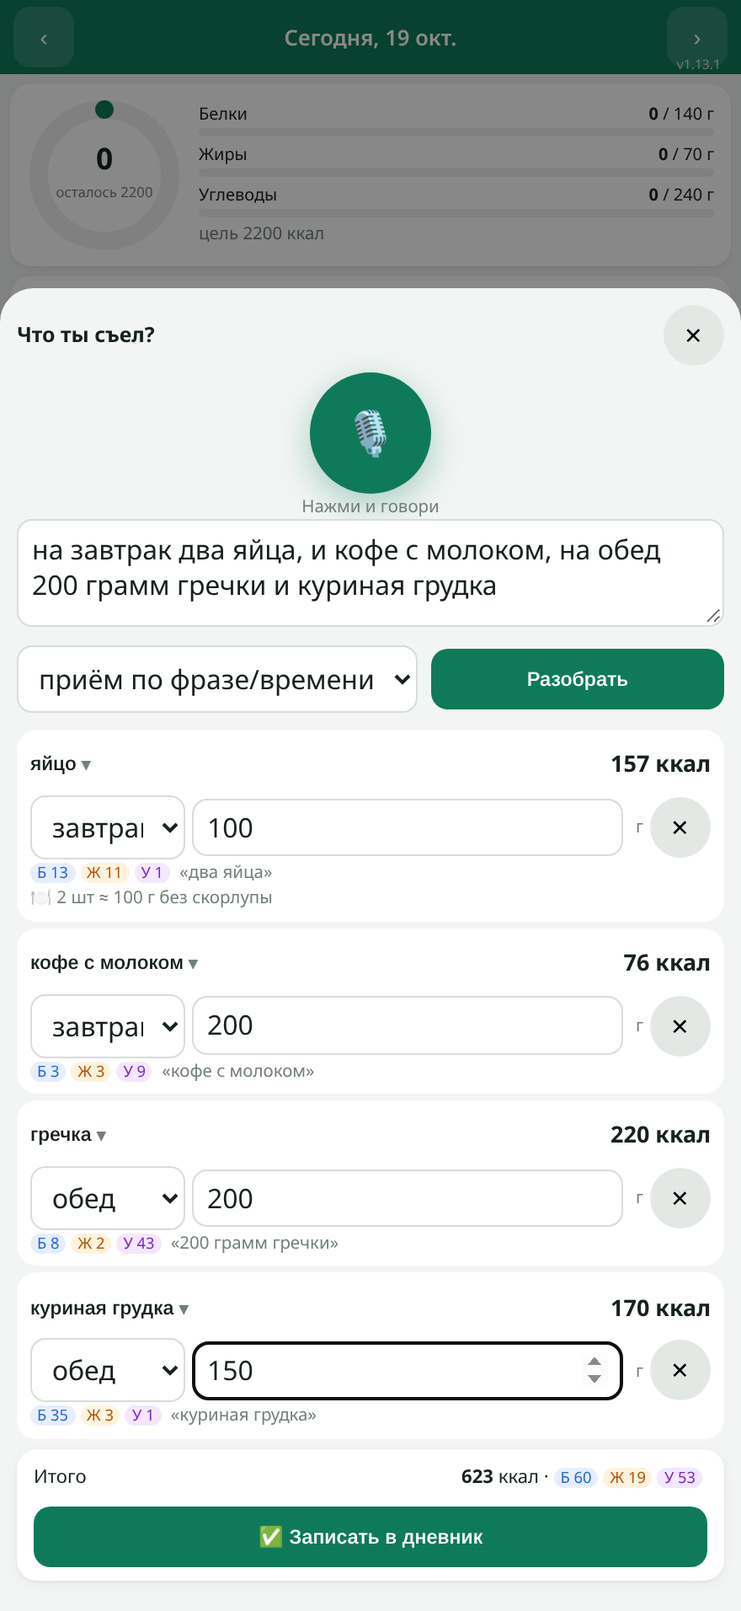
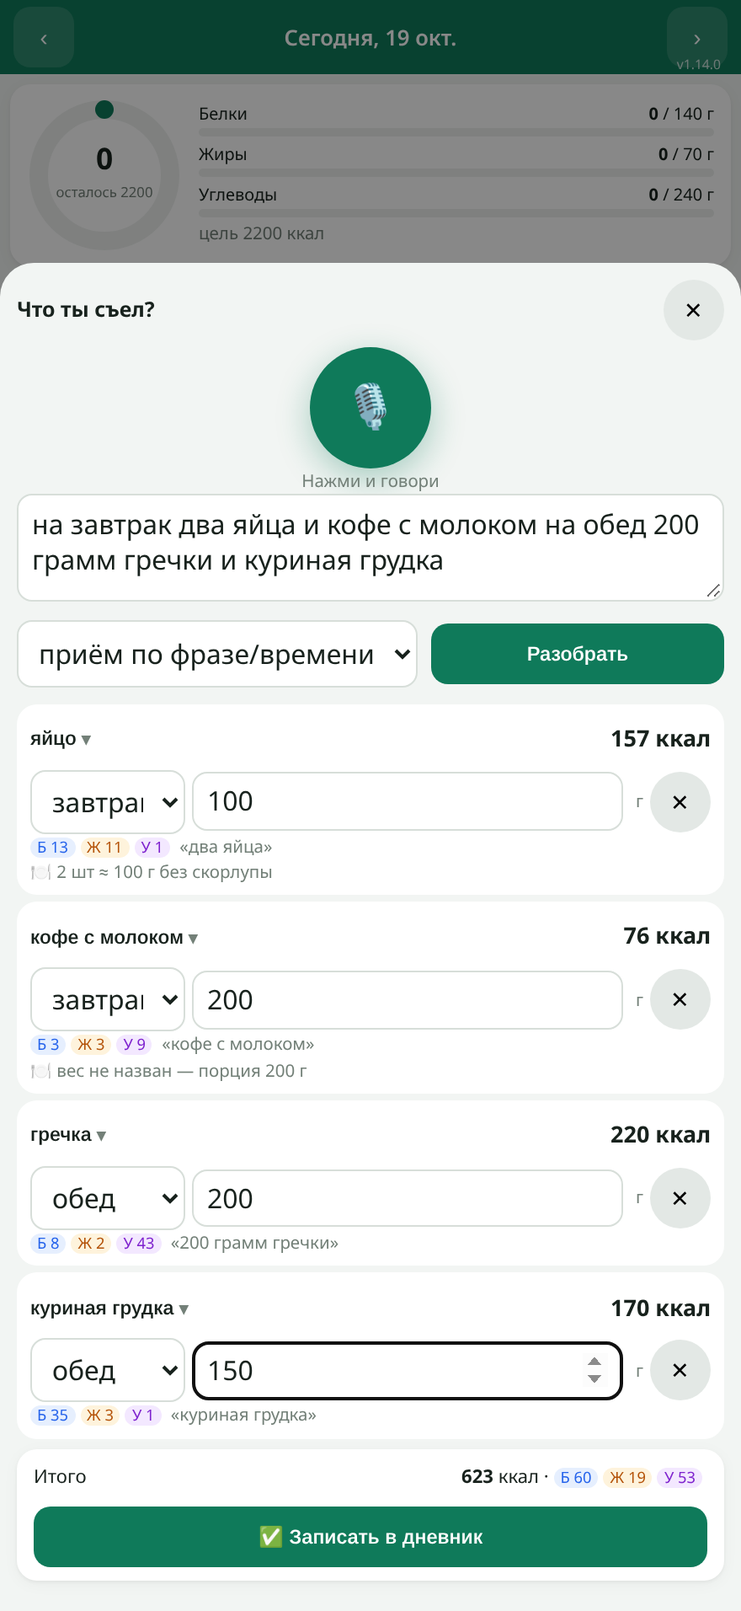
v1.14.0: free-speech parser (fillers, DB segmentation, cooked qualifiers), iOS mic engine with auto-restart + silent retry

Changed region(s): [[0.0307, 0.216, 0.9818, 0.6789], [0.0, 0.1543, 1.0, 0.216]]

diff --git a/app.js b/app.js
@@ -1,5 +1,5 @@
 'use strict';
-const VER='1.13.1';
+const VER='1.14.0';
 const $=s=>document.querySelector(s), R=Math.round, esc=s=>String(s==null?'':s).replace(/[&<>"]/g,c=>({'&':'&amp;','<':'&lt;','>':'&gt;','"':'&quot;'}[c]));
 const MEALS=['завтрак','обед','ужин','перекус'], MI={завтрак:'🍳',обед:'🍲',ужин:'🍽',перекус:'🍎'};
 const KEY='kbju.v1';
@@ -313,44 +313,24 @@ function recalc(it){ if(it.food)Object.assign(it,KP.nutr(it.food,it.g)) }
 // Микрофон-переключатель (iOS-устойчивый): 1-е нажатие — старт, 2-е — ВСЕГДА стоп.
 // Сессии continuous=false; управляемый перезапуск, пока пользователь не нажал «стоп» (лимит + backoff).
 // Финальный и промежуточный текст сразу пишется в поле — ничего не теряется. Сторож 8 с. Ошибки → понятные сообщения; в PWA при сбое — диктовка клавиатуры.
-const MIC={sr:null,on:false,target:null,btn:null,base:'',sess:'',tmp:'',done:null,restarts:0,empty:0,got:false,wd:null,rt:null,fails:0,t0:0};
-const MIC_MAX=25, MIC_WD=8000, STANDALONE=!!(navigator.standalone||(window.matchMedia&&matchMedia('(display-mode: standalone)').matches));
-const MIC_ERR={'no-speech':'Не слышу речь — говори ближе к микрофону','aborted':'','audio-capture':'Микрофон недоступен (занят другим приложением?)',
- 'not-allowed':'Нет доступа к микрофону — разреши в Настройки → Safari → Микрофон','service-not-allowed':'Распознавание речи недоступно в этом режиме iOS',
- 'network':'Нет сети для распознавания речи','language-not-supported':'Русский язык распознавания недоступен','bad-grammar':'Ошибка распознавания','phrases-not-supported':'Ошибка распознавания'};
-const MIC_HARD=/not-allowed|service-not-allowed|language-not-supported|audio-capture|network/;
+const STANDALONE=!!(navigator.standalone||(window.matchMedia&&matchMedia('(display-mode: standalone)').matches));
+const MIC={on:false,target:null,btn:null,fails:0,t0:0,eng:null};
 function mlog(ev){ if(!S.set.micdbg)return; const el=$('#micdbg'); if(!el)return; const t=MIC.t0?((Date.now()-MIC.t0)/1000).toFixed(1):'0.0';
   mlog.l=(mlog.l||[]).concat(t+'s '+ev).slice(-10); el.textContent='🎙 '+mlog.l.join(' · '); el.style.display='block' }
 function mst(t){ const st=$('#mst'); if(st)st.textContent=t; else if(t)toast(t) }
 function micKbd(target,why){ micReset(); const el=$('#'+target); if(el){ el.focus(); try{el.setSelectionRange(el.value.length,el.value.length)}catch(e){} }
   mst((why?why+'. ':'')+'Нажми 🎤 на клавиатуре iPhone и диктуй'); toast((why?why+'. ':'')+'Используй 🎤 на клавиатуре iPhone'); mlog('fallback:kbd') }
-function micStart(target,btn,done){ if(MIC.on||MIC.sr){ mlog('tap:stop'); micStop(); return }
+function micEng(){ return MIC.eng||(MIC.eng=MICX.Mic({SR,log:mlog,status:mst,ui:on=>{MIC.on=on;micUI()},
+  set:t=>{ const el=$('#'+MIC.target); if(!el)return; el.value=t; el.dispatchEvent(new Event('input',{bubbles:true})) },
+  kbd:why=>{ MIC.fails++; micKbd(MIC.target,why) },
+  fatal:(c,m)=>{ MIC.fails++; if(STANDALONE||/service-not-allowed|language/.test(c))micKbd(MIC.target,m); else mst(m+' — или 🎤 на клавиатуре') }})) }
+function micStart(target,btn,done){ if(MIC.on){ mlog('tap:stop'); micEng().stop(); return }
   if(!SR){ micKbd(target,'Распознавание речи не поддерживается'); return }
   if(MIC.fails>=2&&STANDALONE){ micKbd(target,'Микрофон в режиме приложения не работает'); return }
-  const el=$('#'+target); Object.assign(MIC,{on:true,target,btn,done,base:el&&el.value.trim()?el.value.trim()+' ':'',sess:'',tmp:'',restarts:0,empty:0,t0:Date.now()}); mlog.l=[]; mlog('tap:start'+(STANDALONE?' pwa':''));
-  micUI(); mst('Слушаю… нажми ещё раз, чтобы закончить'); micSession() }
-function micWrite(){ const el=$('#'+MIC.target); if(!el)return; const cur=(MIC.sess+(MIC.tmp?' '+MIC.tmp:'')).trim(); el.value=(MIC.base+(cur&&MIC.base.trim()&&!/[,;]\s*$/.test(MIC.base)?', ':'')+cur).replace(/\s+/g,' ').trimStart(); el.dispatchEvent(new Event('input',{bubbles:true})) }
-function micCommit(){ const add=(MIC.sess+' '+MIC.tmp).replace(/\s+/g,' ').trim(); if(add)MIC.base=(MIC.base.trim()?MIC.base.trim().replace(/[,;]$/,'')+', ':'')+add+' '; MIC.sess='';MIC.tmp=''; micWrite() }
-function micKick(){ clearTimeout(MIC.wd); if(MIC.on)MIC.wd=setTimeout(()=>{ mlog('watchdog'); const t=MIC.target; micStop(true); mst('Микрофон не ответил за 8 с — попробуй ещё раз или 🎤 на клавиатуре'); if(STANDALONE||MIC.fails>=1)micKbd(t,'Микрофон не ответил'); MIC.fails++ },MIC_WD) }
-function micSession(){ let r; try{ r=new SR() }catch(e){ mlog('ctor-fail'); micKbd(MIC.target,'Распознавание недоступно'); return }
-  MIC.sr=r; MIC.got=false; r.lang='ru-RU'; r.continuous=false; r.interimResults=true; r.maxAlternatives=1;
-  const live=()=>MIC.sr===r;
-  r.onstart=()=>{ if(live()){mlog('start');micKick()} }; r.onaudiostart=()=>{ if(live()){mlog('audio');micKick()} }; r.onspeechstart=()=>{ if(live()){mlog('speech');micKick()} };
-  r.onresult=e=>{ if(!live())return; micKick(); let fin='',tmp=''; for(let i=0;i<e.results.length;i++){ const x=e.results[i], s=(x[0]&&x[0].transcript||'').trim(); if(x.isFinal)fin+=s+' '; else tmp+=s+' ' }
-    MIC.sess=fin.trim(); MIC.tmp=tmp.trim(); MIC.got=MIC.got||!!(fin+tmp).trim(); mlog('result'+(fin?':final':':interim')); micWrite() };
-  r.onerror=e=>{ if(!live())return; const c=e.error||'unknown'; mlog('error:'+c); if(c==='aborted')return;
-    if(MIC_HARD.test(c)){ MIC.fails++; const t=MIC.target, m=MIC_ERR[c]; micCommit(); micStop(true); if(STANDALONE||/service-not-allowed|language/.test(c))micKbd(t,m); else mst(m+' — или 🎤 на клавиатуре'); return }
-    if(c==='no-speech'&&MIC.empty>=2)mst(MIC_ERR[c]); else if(MIC_ERR[c]==null)mst('Ошибка микрофона: '+c) };
-  r.onend=()=>{ if(!live())return; mlog('end'); micCommit(); if(!MIC.got)MIC.empty++; else MIC.empty=0; MIC.sr=null;
-    if(MIC.on&&MIC.restarts<MIC_MAX&&MIC.empty<4){ MIC.restarts++; const d=Math.min(1500,120*Math.pow(2,Math.max(0,MIC.empty))); clearTimeout(MIC.rt); MIC.rt=setTimeout(()=>{ if(MIC.on)micSession() },d); micKick() }
-    else { const e=MIC.on&&MIC.empty>=4; micStop(e); if(e)mst('Ничего не распознано — попробуй ещё раз или 🎤 на клавиатуре') } };
-  try{ r.start(); mlog('start()'); micKick() }catch(e){ mlog('start-throw:'+(e.name||'')); MIC.fails++; MIC.sr=null; const t=MIC.target; micStop(true); micKbd(t,'Не удалось включить микрофон') } }
-// стоп: снять флаг, abort(), сбросить UI, вернуть текст колбэку
-function micStop(quiet){ const r=MIC.sr, cb=MIC.done; micCommit(); MIC.on=false; MIC.sr=null; MIC.done=null; clearTimeout(MIC.wd); clearTimeout(MIC.rt);
-  if(r){ try{r.abort()}catch(e){} } micUI(); if(!quiet)mst('Нажми и говори'); mlog('stopped'); const el=$('#'+MIC.target); if(cb&&el&&el.value.trim())cb(el.value.trim()) }
-function micReset(){ const r=MIC.sr; MIC.on=false; MIC.sr=null; MIC.done=null; clearTimeout(MIC.wd); clearTimeout(MIC.rt); if(r){try{r.abort()}catch(e){}} micUI() }
+  const el=$('#'+target); Object.assign(MIC,{target,btn,t0:Date.now()}); mlog.l=[]; mlog('tap:start'+(STANDALONE?' pwa':'')); micEng().start(el?el.value:'',done) }
+function micReset(){ if(MIC.eng)MIC.eng.cancel(); MIC.on=false; micUI() }
 function micUI(){ document.querySelectorAll('.micb,.mic').forEach(b=>b.classList.toggle('on',MIC.on&&b===MIC.btn)) }
-function micCancel(){ if(MIC.on||MIC.sr){ micCommit(); micReset(); mlog('cancel') } }
+function micCancel(){ if(MIC.on)micReset() }
 const micBtn=(target,act)=>`<button class="micb" data-mict="${target}" data-mica="${act}" aria-label="Диктовать">🎙</button>`;
 const pl=(n,a,b,c)=>{n=Math.abs(n)%100;const m=n%10;return n>10&&n<20?c:m===1?a:m>1&&m<5?b:c};
 function saveVoice(){ const ok=V.items.filter(i=>i.food&&i.g>0), miss=V.items.filter(i=>!i.food); if(miss.length&&!confirm('Не нашлось: '+miss.map(i=>'«'+i.text+'»').join(', ')+'. Записать остальное без них?'))return; if(!ok.length){toast('Нечего сохранять — выбери продукт');return}

diff --git a/parser.js b/parser.js
@@ -165,16 +165,34 @@ function resolve(index,ch,raw,meal){ let alts=search(index,ch.text,6); const cm=
   if(food&&food.cnote)r.note=food.cnote+(r.note?' · '+r.note:'');
   if(cm){ r.unsure=false; r.cands=[food].concat(cm.alts).slice(0,3) }
   if(food)Object.assign(r,nutr(food,g)); return r }
+// свободная речь: убрать команды/междометия, «взвешенный» = готовый
+const CMD=[/(^|\s)(?:по|под|рас)?счита(?:й|ем|ть|йте)(?:-?ка|те)?(?=\s)/g,/(^|\s)(?:пожалуйста|сколько(?:\s+(?:будет|там|это|в))?|к?бжу|калори\S*|кбжу\S*|запиши(?:-?ка|те)?|добавь(?:-?ка|те)?|внеси(?:-?ка|те)?|это|уже|ну|вот|э+|эм+|м+|короче|значит|так|слушай|смотри|давай|тут|там)(?=\s)/g,
+  /(^|\s)(?:я\s+)?(?:съел[аи]?|поел[аи]?|выпил[аи]?|скушал[аи]?|покушал[аи]?)(?=\s)/g];
+function speech(t){ t=t.replace(/(^|\s)а\s+также(?=\s)/g,' , ').replace(/(^|\s)(?:вес(?:ом)?\s+)?в\s+готовом\s+виде(?=\s)/g,' готовый ').replace(/(^|\s)(?:взвешенн|отвешенн)\S*(?:\s+в\s+готов\S*)?(?=\s)/g,' готовый ');
+  for(let k=0;k<2;k++)for(const re of CMD)t=t.replace(re,'$1 ');
+  t=t.replace(/(^|\s)готов(?:ы|ое|ая|ый|ой|ую|ого|ые)?(?=\s)/g,'$1готовый'); t=t.replace(/(готовый\s+)+готовый(?=\s)/g,'готовый');
+  return t.replace(/\s+/g,' ').replace(/^\s*/,' ') }
+const QUAL=/^(готов|варен|отвар|жарен|туш|запеч|сыр|свеж|копчен|солен|печен|гриль|паров|вареный|приготовлен|домашн|обезжир)/;
+// разбить «готового риса готовый свинина» на продукты по самым длинным совпадениям в базе
+function segment(index,ws){ const n=ws.length; if(n<2||n>14)return null; const ok=[]; for(let i=0;i<n;i++){ ok[i]=[]; for(let L=1;L<=Math.min(4,n-i);L++){ const sp=ws.slice(i,i+L); if(sp.every(w=>QUAL.test(w)||STOP.has(w)||FILLER.has(w)))continue; if(STOP.has(sp[0])&&L>1)continue;
+      const b=search(index,sp.join(' '),1)[0]; const q=sp.filter(w=>!STOP.has(w)&&!FILLER.has(w)).length||1; if(b&&b.all&&b.score>=q*10*.6)ok[i][L]=b.score-3+(b.full?.5:0) } }
+  const best=new Array(n+1).fill(null); best[n]={v:0,segs:[]};
+  for(let i=n-1;i>=0;i--){ let c=best[i+1]&&{v:best[i+1].v,segs:best[i+1].segs}; for(let L=1;L<=4;L++){ const v=ok[i][L]; if(v&&best[i+L]&&(!c||v+best[i+L].v>c.v))c={v:v+best[i+L].v,segs:[[i,i+L]].concat(best[i+L].segs)} } best[i]=c }
+  const r=best[0]; if(!r||!r.segs.length)return null;
+  // одиночные определения («готовый») прикрепить к соседу
+  const segs=r.segs.map(x=>x.slice()); for(let i=0;i<n;i++){ if(segs.some(x=>i>=x[0]&&i<x[1])||!QUAL.test(ws[i]))continue; const nx=segs.find(x=>x[0]===i+1)||segs.find(x=>x[0]>i), pv=segs.slice().reverse().find(x=>x[1]===i);
+    const tgt=nx&&nx[0]===i+1?nx:pv||nx; if(!tgt)continue; const cand=tgt[0]>i?[i,tgt[1]]:[tgt[0],i+1], b=search(index,ws.slice(cand[0],cand[1]).filter((w,k)=>cand[0]+k===i||(k+cand[0]>=tgt[0]&&k+cand[0]<tgt[1])).join(' '),1)[0]; if(b&&b.all){ tgt.q=(tgt.q||[]).concat(i) } }
+  const out=segs.map(x=>ws.slice(x[0],x[1]).concat((x.q||[]).map(i=>ws[i])).join(' ')); out.r=segs; return out }
 function chunkHasQty(ts){ return ts.some((t,i)=>readNum(ts,i)||unitOf(t)) }
 function parse(text,opt){ opt=opt||{}; const index=opt.index||makeIndex(opt.foods||[],opt.recipes||[]);
-  let nt=norm(text); const chd=chainDetect(nt); CUR_CHAIN=chd&&G.CHAINS?chd.slug:null; if(chd)nt=chd.rest;
+  let nt=norm(text); const chd=chainDetect(nt); CUR_CHAIN=chd&&G.CHAINS?chd.slug:null; if(chd)nt=chd.rest; nt=speech(nt);
   const ts0=(nt.replace(/(^|\s)(с|со|в)\s+(кожур|кожиц|шкурк|скорлуп)[а-я]*/g,' целиком').replace(/[,;]/g,' , ').match(/[a-zа-я0-9.%-]+|,/g)||[]);
   for(let i=0;i<ts0.length;i++){ const r=readNum(ts0,i); if(r&&/^процент/.test(ts0[r.j]||'')){ ts0.splice(i,r.j-i+1,r.v+'%') } }
   const segs=opt.noMeals?[{meal:opt.meal||null,ts:ts0}]:splitMeals(ts0,opt.meal||defaultMeal(opt.now));
   const res=[];
   for(const seg of segs){ let chunks=splitItems(seg.ts);
     // склеить «кофе с молоком и сахаром», если целиком есть в базе
-    for(let i=0;i<chunks.length-1;i++){ if(chunkHasQty(chunks[i+1].filter(t=>!FILLER.has(t))))continue; const j=chunks[i].concat(['и'],chunks[i+1]); const c=parseChunk(index,j);
+    for(let i=0;i<chunks.length-1;i++){ if(chunkHasQty(chunks[i+1].filter(t=>!FILLER.has(t)))||chunks[i].findIndex((t,k)=>readNum(chunks[i],k)||unitOf(t))>0)continue; const j=chunks[i].concat(['и'],chunks[i+1]); const c=parseChunk(index,j);
       const b=search(index,c.text,1)[0]; if(b&&b.full){chunks.splice(i,2,j);i--} }
     // разбить по числам: «два яйца три банана»
     const ch2=[]; for(const c of chunks){ let cur=[],hasQ=false,hasF=false; for(let i=0;i<c.length;i++){ const r=/^(из|от)$/.test(c[i-1]||'')?null:readNum(c,i);
@@ -187,7 +205,15 @@ function parse(text,opt){ opt=opt||{}; const index=opt.index||makeIndex(opt.food
       if(!r.full&&!(r.all&&r.food&&/\s(с|со)\s/.test(' '+r.food.n+' '))&&/\s(с|со)\s/.test(' '+pc.text+' ')){ const parts=(' '+pc.text+' ').split(/\s(?:с|со)\s/).map(s=>s.trim()).filter(Boolean);
         if(parts.length>1){ const rs=parts.map((p,k)=>resolve(index,k===0?Object.assign({},pc,{text:p}):{num:null,unit:null,size:1,text:p},k?p:raw,seg.meal));
           if(rs.every(x=>x.food)){ rs.forEach(x=>res.push(x)); continue } } }
+      const noW=!/(^|\s)(с|со|и|в|из|без|на|под)(\s|$)/.test(pc.text), rfull=r.full&&!(noW&&r.food&&/\s(с|со)\s/.test(r.food.n));
+      if((!r.food||(!rfull&&noW))&&pc.text.split(' ').length>=2){ const ws=pc.text.split(' '), sg=segment(index,ws);
+        if(sg&&(sg.length>1||!r.food)){ const qi=c.findIndex((t,i)=>readNum(c,i)||unitOf(t)); let at=0;
+          if(qi>0){ const pw=ws.lastIndexOf(c[qi-1]); if(pw>=0){ const k=sg.r.findIndex(x=>pw>=x[0]&&pw<x[1]||(x.q||[]).includes(pw)); if(k>=0)at=k } }
+          const rs=sg.map((p,k)=>resolve(index,k===at?Object.assign({},pc,{text:p}):{num:null,unit:null,size:1,text:p},k===at?((qi>=0&&qi<c.indexOf(ws[0])?c.slice(qi,c.indexOf(ws[0])).join(' ')+' ':'')+p):p,seg.meal));
+          const sc=t=>{const b=search(index,t,1)[0];return b?b.score:0}, better=()=>noW&&!rfull&&sg.length>1&&rs.every(x=>x.full)&&(r.full||sc(pc.text)<ws.length*9)&&sg.reduce((a,p)=>a+sc(p),0)>sc(pc.text)+1;
+          if(rs.every(x=>x.food)&&(!r.food||(!r.all&&!r.full)||better())){ rs.forEach((x,k)=>{ if(k!==at&&/meat/.test(x.food.cat||'')&&x.cands.length>1)x.unsure=true; res.push(x) }); continue } } }
       res.push(r) } }
+  res.forEach(r=>{ if(r.food&&r.num==null&&!r.unit&&!r.note)r.note='вес не назван — порция '+Math.round(r.g)+' г' });
   return res }
 const P={chainIn,CHAIN_META,parse,search,makeIndex,tokens,stem,norm,grams,nutr,defaultMeal,readNum};
 if(typeof module!=='undefined'&&module.exports)module.exports=P; else G.KP=P;

diff --git a/tests/speech.test.js b/tests/speech.test.js
@@ -1,0 +1,52 @@
+// node tests/speech.test.js — свободная речь: без пунктуации, команды, слитные перечисления, ошибки распознавания
+global.self=global; require('../db.js'); require('../chains.js'); const P=require('../parser.js'); const ix=P.makeIndex(self.FOODS,[]);
+const C=[
+["Посчитай-ка БЖУ 100 г готового риса это уже взвешенный готовы свинина",[["рис",100],["свинина готовая",150]]],
+["посчитай калории двести грамм гречки",[["гречка",200]]],
+["сколько бжу в банане",[["банан",118]]],
+["я съел два яйца хлеб",[["яйцо",100],["хлеб белый",30]]],
+["ну вот короче съел сто пятьдесят грамм курицы гречку",[["курица",150],["гречка",200]]],
+["запиши двести пятьдесят грамм творога пять процентов",[["творог 5%",250]]],
+["добавь полтора банана",[["банан",177]]],
+["съел два куска пиццы пепперони",[["пицца пепперони",130]]],
+["ээ выпил стакан молока",[["молоко",250]]],
+["так я поел гречку с котлетой",[["гречка",200],["котлета",80]]],
+["рис взвешенный 150 грамм",[["рис",150]]],
+["борщ хлеб сметана",[["борщ",300],["хлеб белый",30],["сметана",20]]],
+["сто грамм куриной грудки двести грамм риса",[["куриная грудка",100],["рис",200]]],
+["выпил кофе с молоком а также съел круассан",[["кофе с молоком",200],["круассан",60]]],
+["на завтрак омлет и кофе",[["омлет",150],["кофе",200]]],
+["плюс яблоко",[["яблоко",182]]],
+["пельмени пятнадцать штук и сметана",[["пельмени",180],["сметана",20]]],
+["триста грамм свинины готовой картошка",[["свинина готовая",300],["картофель",150]]],
+["посчитай-ка бжу додо пепперони два куска",[["Пепперони 30 см (Додо)",138]]],
+["съел в якитории филадельфия",[["Филадельфия (Якитория)",225]]],
+["му-му борщ хлеб",[["Борщ с говядиной (Му-Му)",250],["Хлеб хуторской (Му-Му)",24]]],
+["сто грамм гречки отварной куриная грудка сто пятьдесят",[["гречка",100],["куриная грудка отварная",200]]],
+["гречка котлета огурец",[["гречка",200],["котлета",80],["огурец",100]]],
+["творог банан",[["творог",150],["банан",118]]],
+["сто грамм готовы гречки",[["гречка",100]]],
+["салат цезарь кола",[["салат цезарь",200],["лимонад",330]]],
+["яблоко банан апельсин",[["яблоко",182],["банан",118],["апельсин",130]]],
+["ещё два яйца вареных",[["яйцо вареное",100]]],
+["пол пиццы маргарита",[["пицца маргарита",260]]],
+["двести грамм макарон готовых и котлета",[["макароны",200],["котлета",80]]],
+["короче на ужин лосось рис",[["лосось",150],["рис",200]]],
+["съела йогурт и печенье две штуки",[["йогурт",150],["печенье",20]]],
+["кефир стакан и банан",[["кефир",250],["банан",118]]],
+["шаурма кола",[["шаурма",350],["лимонад",330]]],
+["сырники три штуки сметана",[["сырники",150],["сметана",60]]],
+["чай с сахаром",[["чай с сахаром",200]]],
+["куриная грудка рис",[["куриная грудка",200],["рис",200]]],
+["хлеб черный масло сливочное",[["хлеб черный",30],["масло сливочное",10]]],
+["слушай запиши на обед суп куриный",[["суп куриный",300]]],
+["давай посчитаем двести грамм творога и банан",[["творог",200],["банан",118]]],
+["вот это я съел свинину вес в готовом виде двести грамм",[["свинина готовая",200]]],
+["двести пятьдесят грамм кефира банан",[["кефир",250],["банан",118]]],
+];
+let ok=0,bad=0; const as=(c,m)=>{if(c)ok++;else{bad++;console.log('FAIL:',m)}};
+for(const [s,exp] of C){ const got=P.parse(s,{index:ix,meal:'обед'}).map(r=>[r.food?r.food.n:'??'+r.text,Math.round(r.g)]);
+  as(got.length===exp.length&&exp.every((e,i)=>e[0]===got[i][0]&&Math.abs(e[1]-got[i][1])<=Math.max(2,e[1]*.02)),s+'\n  got '+JSON.stringify(got)+'\n  exp '+JSON.stringify(exp)) }
+{ const r=P.parse('Посчитай-ка БЖУ 100 г готового риса это уже взвешенный готовы свинина',{index:ix});
+  as(r.length===2&&r.every(x=>x.food&&!x.miss),'скрин: 2 найденных'); as(r[0].num===100&&r[0].note==='','рис: 100 г названо'); as(/порция/.test(r[1].note)&&r[1].cands.length>=2,'свинина: порция по умолчанию видна + выбор отруба: '+r[1].note) }
+console.log(`\n${ok} passed, ${bad} failed`); process.exit(bad?1:0);

diff --git a/tests/mic.test.js b/tests/mic.test.js
@@ -1,0 +1,36 @@
+// node tests/mic.test.js — логика микрофона (mic.js) на моках iOS webkitSpeechRecognition и фейковых таймерах
+const {Mic}=require('../mic.js'); let ok=0,bad=0; const as=(c,m)=>{if(c)ok++;else{bad++;console.log('FAIL:',m)}};
+function env(script){ // script: массив поведений сессий по порядку
+  let T=0,q=[],id=0; const E={field:'',status:'',kbd:null,done:null,ui:null,inst:[],fatal:null};
+  const st=(f,d)=>{const i=++id;q.push({i,t:T+d,f});return i}, ct=i=>{q=q.filter(x=>x.i!==i)};
+  const run=ms=>{ const end=T+ms; for(;;){ q.sort((a,b)=>a.t-b.t); const x=q[0]; if(!x||x.t>end)break; q.shift(); T=x.t; x.f() } T=end };
+  class SR{ constructor(){ this.k=E.inst.length; this.b=script[this.k]||{silent:true}; E.inst.push(this) }
+    start(){ const b=this.b; this.alive=true; if(b.throw)throw new Error('InvalidState'); if(b.silent)return; st(()=>this.alive&&this.onstart&&this.onstart(),20);
+      if(b.err){ st(()=>{ if(!this.alive)return; this.onerror({error:b.err}); this.alive=false; this.onend() },60); return }
+      let t=100; (b.say||[]).forEach(([s,fin])=>{ st(()=>{ if(!this.alive)return; this.onresult({results:[Object.assign([{transcript:s}],{isFinal:!!fin})]}) },t); t+=100 });
+      if(!b.hang)st(()=>{ if(!this.alive)return; this.alive=false; this.onend() },t+50) }
+    abort(){ this.aborted=true; if(!this.alive)return; this.alive=false; st(()=>this.onend&&this.onend(),5) } }
+  const m=Mic({SR,setTimeout:st,clearTimeout:ct,now:()=>T,set:t=>E.field=t,status:s=>E.status=s,kbd:w=>E.kbd=w,ui:u=>E.ui=u,fatal:(c,s)=>E.fatal=c});
+  return {E,m,run} }
+// 1) iOS обрывает после паузы: 3 сессии подряд, текст копится, interim тоже, лишних запятых нет
+{ const {E,m,run}=env([{say:[['посчитай-ка бжу'],['посчитай-ка бжу 100 г',1]]},{say:[['готового риса',1]]},{err:'no-speech'},{say:[['это уже взвешенный'],['это уже взвешенный готовы свинина']]}]);
+  m.start('',t=>E.done=t); as(E.ui===true&&m.on,'старт одним нажатием'); run(400); as(E.field==='посчитай-ка бжу 100 г','финальный текст в поле: '+E.field);
+  run(5000); as(E.inst.length>=4,'автоперезапуск после onend и no-speech: '+E.inst.length); as(E.inst.every(r=>r.lang==='ru-RU'&&r.interimResults),'ru-RU + interim');
+  as(m.on,'не останавливается сам на паузах'); m.stop(); run(50);
+  as(E.done==='посчитай-ка бжу 100 г готового риса это уже взвешенный готовы свинина','всё накоплено, колбэк разбора после стопа: '+E.done); as(!m.on&&E.ui===false,'второе нажатие — стоп') }
+// 2) interim без final, затем стоп — промежуточный текст не теряется
+{ const {E,m,run}=env([{say:[['двести грамм гречки']],hang:true}]); m.start('кефир',t=>E.done=t); run(300); as(E.field==='кефир двести грамм гречки','interim виден + старый текст поля: '+E.field); m.stop(); as(E.done==='кефир двести грамм гречки','interim сохранён при стопе') }
+// 3) нет ответа: один тихий перезапуск, затем подсказка про клавиатуру
+{ const {E,m,run}=env([{silent:true},{silent:true}]); m.start('',t=>E.done=t); run(8100); as(E.inst.length===2&&E.inst[0].aborted&&E.kbd===null&&m.on,'тихий повтор после 8 с'); run(8100); as(E.kbd==='Микрофон не ответил'&&!m.on,'потом подсказка: '+E.kbd) }
+// 4) тихий повтор помог — работаем дальше без подсказки
+{ const {E,m,run}=env([{silent:true},{say:[['банан',1]]}]); m.start('',t=>E.done=t); run(8500); as(E.kbd===null&&E.field==='банан'&&m.on,'повтор помог'); m.stop(); as(E.done==='банан','результат после повтора') }
+// 5) start() бросает — один повтор
+{ const {E,m,run}=env([{throw:true},{say:[['яблоко',1]]}]); m.start('',t=>E.done=t); run(1000); as(E.field==='яблоко'&&E.kbd===null,'повтор после исключения start()') }
+{ const {E,m,run}=env([{throw:true},{throw:true}]); m.start('',()=>{}); run(1000); as(E.kbd&&!m.on,'два исключения → клавиатура') }
+// 6) жёсткая ошибка — стоп с сообщением
+{ const {E,m,run}=env([{err:'not-allowed'}]); m.start('',()=>{}); run(200); as(E.fatal==='not-allowed'&&!m.on&&E.inst.length===1,'not-allowed: стоп без перезапуска') }
+// 7) повторное нажатие во время перезапуска (между сессиями) — всё равно стоп
+{ const {E,m,run}=env([{say:[['суп',1]]},{silent:true}]); m.start('',t=>E.done=t); run(260); m.start('',()=>{}); run(2000); as(!m.on&&E.done==='суп'&&E.inst.length<=2,'стоп между сессиями: '+E.inst.length) }
+// 8) долгая тишина без речи — авто-стоп с разбором накопленного
+{ const sc=[{say:[['гречка',1]]}]; for(let i=0;i<500;i++)sc.push({err:'no-speech'}); const {E,m,run}=env(sc); m.start('',t=>E.done=t); run(200000); as(!m.on&&E.done==='гречка','авто-стоп после долгой тишины') }
+console.log(`\n${ok} passed, ${bad} failed`); process.exit(bad?1:0);

diff --git a/mic.js b/mic.js
@@ -1,0 +1,34 @@
+// Микрофон (iOS Safari/PWA): 1-е нажатие — старт, 2-е — стоп. iOS обрывает сессию после паузы — перезапускаем,
+// пока пользователь не нажал «стоп», копим финальный+промежуточный текст всех сессий и сразу пишем в поле.
+// Нет ответа — один тихий перезапуск, потом подсказка про 🎤 на клавиатуре.
+(function(G){
+const ERR={'no-speech':'','aborted':'','audio-capture':'Микрофон недоступен (занят другим приложением?)','not-allowed':'Нет доступа к микрофону — разреши в Настройки → Safari → Микрофон',
+ 'service-not-allowed':'Распознавание речи недоступно в этом режиме iOS','network':'Нет сети для распознавания речи','language-not-supported':'Русский язык распознавания недоступен'};
+const HARD=/not-allowed|service-not-allowed|language-not-supported|audio-capture|network/;
+function Mic(o){ const st=o.setTimeout||((f,d)=>setTimeout(f,d)), ct=o.clearTimeout||(t=>clearTimeout(t)), now=o.now||Date.now, WD=o.wd||8000, IDLE=o.idle||90000, MAX=o.max||400, log=o.log||(()=>{});
+  const M={on:false,sr:null,base:'',acc:'',sess:'',tmp:'',done:null,wd:null,rt:null,retried:false,heard:0,empty:0,n:0,fails:0};
+  const text=()=>[M.base,M.acc,M.sess,M.tmp].map(s=>(s||'').trim()).filter(Boolean).join(' ').replace(/\s+/g,' ');
+  const write=()=>o.set(text());
+  function commit(){ const s=(M.sess+' '+M.tmp).trim(); if(s)M.acc=(M.acc+' '+s).trim(); M.sess='';M.tmp='' }
+  function kick(){ ct(M.wd); if(!M.on)return; M.wd=st(()=>{ if(!M.on)return; log('watchdog');
+      if(!M.retried){ M.retried=true; log('retry'); kill(); session(); return }
+      M.fails++; stop(true); o.kbd&&o.kbd('Микрофон не ответил') },WD) }
+  function kill(){ const r=M.sr; M.sr=null; commit(); if(r){ try{r.abort()}catch(e){} } }
+  function session(){ if(!M.on)return; let r; try{ r=new o.SR() }catch(e){ log('ctor-fail'); stop(true); o.kbd&&o.kbd('Распознавание недоступно'); return }
+    M.sr=r; M.n++; r.lang='ru-RU'; r.continuous=false; r.interimResults=true; r.maxAlternatives=1; let got=false; const live=()=>M.sr===r;
+    r.onstart=()=>{ if(live()){log('start');kick()} }; r.onaudiostart=r.onspeechstart=()=>{ if(live())kick() };
+    r.onresult=e=>{ if(!live())return; kick(); let fin='',tmp=''; for(let i=0;i<e.results.length;i++){ const x=e.results[i], s=((x[0]&&x[0].transcript)||'').trim(); if(x.isFinal)fin+=s+' '; else tmp+=s+' ' }
+      log('result'+(fin?':final':':interim')); M.sess=fin.trim(); M.tmp=tmp.trim(); if((fin+tmp).trim()){ got=true; M.heard=now(); M.retried=false } write() };
+    r.onerror=e=>{ if(!live())return; const c=(e&&e.error)||'unknown'; log('error:'+c); if(c==='aborted'||c==='no-speech')return;
+      if(HARD.test(c)){ M.fails++; stop(true); const m=ERR[c]; o.fatal?o.fatal(c,m):o.status&&o.status(m); return } };
+    r.onend=()=>{ if(!live())return; log('end'); M.sr=null; commit(); write(); M.empty=got?0:M.empty+1;
+      if(!M.on)return; if(M.n>=MAX||now()-M.heard>IDLE){ log('idle'); stop(); return }
+      ct(M.rt); M.rt=st(session,Math.min(1000,80*Math.pow(2,Math.min(M.empty,4)))); kick() };
+    try{ r.start(); kick() }catch(e){ log('start-throw'); M.sr=null; if(!M.retried){ M.retried=true; ct(M.rt); M.rt=st(session,300); return } M.fails++; stop(true); o.kbd&&o.kbd('Не удалось включить микрофон') } }
+  function start(base,done){ if(M.on){ stop(); return false } Object.assign(M,{on:true,base:(base||'').trim(),acc:'',sess:'',tmp:'',done,retried:false,heard:now(),empty:0,n:0}); o.ui&&o.ui(true); o.status&&o.status('Слушаю… нажми ещё раз, чтобы закончить'); session(); return true }
+  function stop(quiet){ if(!M.on&&!M.sr)return; const cb=M.done; M.on=false; M.done=null; ct(M.wd); ct(M.rt); kill(); write(); o.ui&&o.ui(false); if(!quiet)o.status&&o.status('Нажми и говори'); log('stopped'); const t=text(); if(cb&&t)cb(t) }
+  function cancel(){ if(!M.on&&!M.sr)return; M.done=null; stop(true) }
+  return {start,stop,cancel,text,get on(){return M.on},get fails(){return M.fails},M} }
+const X={Mic,ERR};
+if(typeof module!=='undefined'&&module.exports)module.exports=X; else G.MICX=X;
+})(typeof self!=='undefined'?self:this);

diff --git a/index.html b/index.html
@@ -91,6 +91,6 @@ details.col>summary{list-style:none;cursor:pointer;min-height:36px}details.col>s
 <div class="sheet" id="sheet"><div id="sbody"></div></div>
 <div class="sheet" id="sheet2"><div id="sbody2"></div></div>
 <div id="toast"></div>
-<script src="db.js"></script><script src="micro.js"></script><script src="micros.js"></script><script src="cook.js"></script><script src="dictate.js"></script><script src="menu.js"></script><script src="parser.js"></script><script src="nutri.js"></script><script src="app.js"></script>
+<script src="db.js"></script><script src="micro.js"></script><script src="micros.js"></script><script src="cook.js"></script><script src="dictate.js"></script><script src="menu.js"></script><script src="parser.js"></script><script src="mic.js"></script><script src="nutri.js"></script><script src="app.js"></script>
 <div id="micdbg" style="display:none;position:fixed;left:4px;right:4px;bottom:calc(64px + env(safe-area-inset-bottom));z-index:99;background:#18221dd9;color:#cfe;font:10px/1.3 ui-monospace,monospace;padding:3px 6px;border-radius:6px;pointer-events:none;white-space:nowrap;overflow:hidden;text-overflow:ellipsis"></div>
 </body></html>

diff --git a/sw.js b/sw.js
@@ -1,4 +1,4 @@
-const V='1.13.1',C='kbju-'+V,F=['./','index.html','app.js','parser.js','nutri.js','db.js','micro.js','micros.js','menu.js','cook.js','dictate.js','chains.js','manifest.json','icon-192.png','icon-512.png','apple-touch-icon.png'];
+const V='1.14.0',C='kbju-'+V,F=['./','index.html','app.js','parser.js','nutri.js','db.js','micro.js','micros.js','menu.js','cook.js','dictate.js','mic.js','chains.js','manifest.json','icon-192.png','icon-512.png','apple-touch-icon.png'];
 self.addEventListener('install',e=>{e.waitUntil(caches.open(C).then(c=>c.addAll(F.map(u=>new Request(u,{cache:'reload'})))));self.skipWaiting()});
 self.addEventListener('activate',e=>{e.waitUntil(caches.keys().then(k=>Promise.all(k.filter(x=>x!==C).map(x=>caches.delete(x)))).then(()=>self.clients.claim()))});
 // network-first без HTTP-кэша (cache:'no-store' — iOS не отдаст устаревший index.html); офлайн — из кэша

diff --git a/tests/mic.py b/tests/mic.py
@@ -38,16 +38,16 @@ async def main():
     v=await pg.input_value('#vt'); chk('гречки' in v and 'грудка' in v and 'банан' in v,'final-only: весь текст сохранён: '+v); chk(await red(pg),'кнопка активна, пока не нажали стоп')
     await pg.click('#mic'); await pg.wait_for_timeout(300); chk(not await red(pg),'2-е нажатие — стоп'); chk(await pg.locator('.pi').count()==3,'разобрано 3 позиции')
     n=await pg.evaluate('__m.created'); await pg.wait_for_timeout(800); chk(await pg.evaluate('__m.created')==n,'после стопа перезапусков нет')
-    # 2) тишина: no-speech подряд → ограничение и сброс кнопки (нет бесконечного цикла)
+    # 2) паузы: no-speech подряд → продолжаем слушать (iOS), с backoff, стоп по нажатию
     await pg.fill('#vt',''); await pg.evaluate("__m.mode='no-speech'"); await pg.click('#mic'); await pg.wait_for_timeout(6000)
-    chk(not await red(pg),'no-speech: кнопка сброшена'); cr=await pg.evaluate('__m.created')-n; chk(cr<=6,f'no-speech: рестартов {cr} (лимит)'); chk('Ничего не распознано' in await pg.inner_text('#mst'),'сообщение «ничего не распознано»')
+    chk(await red(pg),'no-speech: всё ещё слушаем'); cr=await pg.evaluate('__m.created')-n; chk(2<=cr<=12,f'no-speech: рестартов {cr} (backoff)'); await pg.click('#mic'); await pg.wait_for_timeout(200); chk(not await red(pg),'стоп после пауз')
     # 3) interim и зависание без onend → стоп всё равно срабатывает сразу, interim сохранён
     await pg.fill('#vt',''); await pg.evaluate("__m.mode='hang-after-result';__m.chunks=['кефир 250']"); await pg.click('#mic'); await pg.wait_for_timeout(300)
     chk('кефир' in await pg.input_value('#vt'),'interim виден сразу'); await pg.click('#mic'); await pg.wait_for_timeout(100)
     chk(not await red(pg),'стоп при зависшей сессии'); chk(await pg.evaluate('__m.aborted')>=1,'вызван abort()'); chk('кефир' in await pg.input_value('#vt'),'interim не потерян')
     # 4) нет событий вообще → сторож 8 с сбрасывает кнопку
     await pg.fill('#vt',''); await pg.evaluate("__m.mode='silent'"); await pg.click('#mic'); await pg.wait_for_timeout(500); chk(await red(pg),'silent: слушаем')
-    await pg.wait_for_timeout(8200); chk(not await red(pg),'сторож 8 с: кнопка сброшена'); chk('8 с' in await pg.inner_text('#mst') or 'клавиатур' in await pg.inner_text('#mst'),'сообщение сторожа')
+    await pg.wait_for_timeout(8200); chk(await red(pg),'сторож 8 с: тихий повтор'); await pg.wait_for_timeout(8200); chk(not await red(pg),'сторож: после повтора кнопка сброшена'); chk('8 с' in await pg.inner_text('#mst') or 'клавиатур' in await pg.inner_text('#mst'),'сообщение сторожа')
     # 5) service-not-allowed → понятное сообщение, кнопка не залипает, фокус в поле (диктовка клавиатуры)
     await pg.evaluate("__m.mode='service-not-allowed'"); await pg.click('#mic'); await pg.wait_for_timeout(400)
     chk(not await red(pg),'service-not-allowed: кнопка сброшена'); t=await pg.inner_text('#mst'); chk('клавиатур' in t and 'недоступно' in t,'сообщение + подсказка: '+t)
@@ -62,7 +62,7 @@ async def main():
     await pg.evaluate("__m.mode='not-allowed'"); await pg.click('#mic'); await pg.wait_for_timeout(400)
     chk(not await red(pg),'PWA not-allowed: сброс'); chk(await pg.evaluate("document.activeElement.id")=='vt','PWA: фокус в поле'); chk('клавиатуре' in await pg.inner_text('#mst'),'PWA: подсказка 🎤')
     # 8) start() бросает исключение
-    await pg.evaluate("__m.mode='throw'"); await pg.click('#mic'); await pg.wait_for_timeout(200); chk(not await red(pg),'start() throw: сброс')
+    await pg.evaluate("__m.mode='throw'"); await pg.click('#mic'); await pg.wait_for_timeout(800); chk(not await red(pg),'start() throw: повтор и сброс')
     # 9) без SpeechRecognition вообще
     pg,errs=await page("delete window.webkitSpeechRecognition; window.webkitSpeechRecognition=undefined;"); await openv(pg); await pg.click('#mic'); await pg.wait_for_timeout(200)
     chk(await pg.evaluate("document.activeElement.id")=='vt' and 'клавиатуре' in await pg.inner_text('#mst'),'нет SR: диктовка клавиатуры')

diff --git a/tests/e2e.py b/tests/e2e.py
@@ -23,7 +23,7 @@ async def main():
     await c.add_init_script(FAKE); pg=await c.new_page()
     pg.on('console',lambda m: m.type=='error' and errs.append(m.text)); pg.on('pageerror',lambda e: errs.append(str(e)))
     await pg.goto(URL); await pg.wait_for_selector('#nav button')
-    assert 'v1.13.1' in await pg.inner_text('#ver')
+    assert 'v1.14.0' in await pg.inner_text('#ver')
     assert await pg.locator('text=🔊').count()==0, 'нет кнопок озвучки'
     # --- микрофон-переключатель: 3 сессии (iOS-рестарты) до нажатия «стоп»
     await pg.evaluate("window.__chunks=['на завтрак два яйца','и кофе с молоком','на обед 200 грамм гречки и куриная грудка']")
